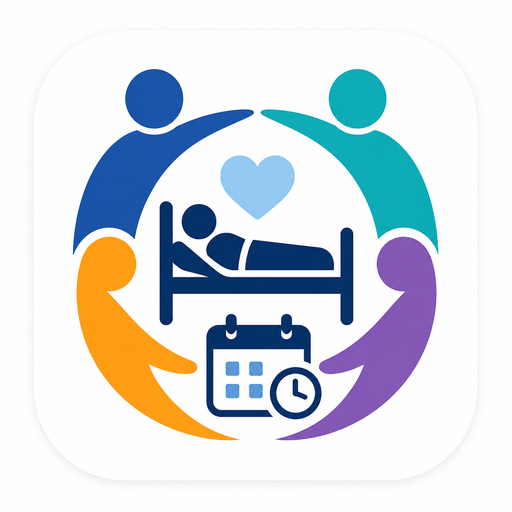
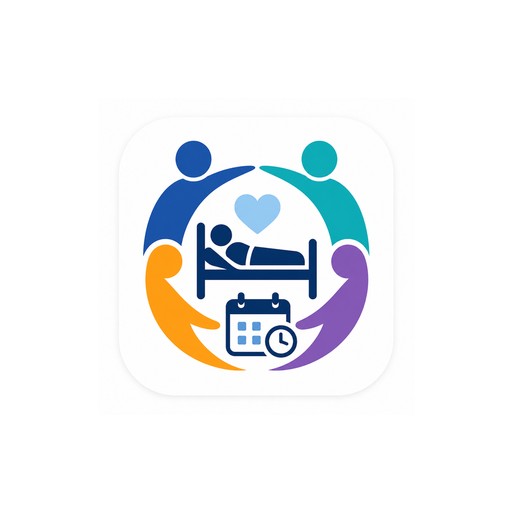
fix: icone adaptative Android recadree + bouton Fermer masque dans Mes modeles
L'icone Android (assets/adaptive-icon.png) remplissait tout le canvas 512x512
sans marge transparente : le masque du launcher (cercle/squircle) rognait le
carre blanc et les personnages du logo. Regenere avec l'illustration reduite
a 62% du canvas, centree sur fond transparent, pour rester dans la zone de
securite adaptive-icon quel que soit le masque applique.

Popup "Mes modeles" (MyChecklist.tsx) : la liste des modeles n'etait pas
scrollable, donc au-dela d'un certain nombre de modeles le bouton "Fermer"
etait pousse hors de la zone visible de la sheet (maxHeight 82%). Meme
correctif que la modale d'import de checklist suggeree : liste dans une
ScrollView plafonnee, bouton Fermer fixe en pied de sheet.

Changed region(s): [[0.125, 0.125, 0.875, 0.875]]

diff --git a/components/MyChecklist.tsx b/components/MyChecklist.tsx
@@ -701,25 +701,27 @@ export default function MyChecklist({ spaceId, isAdmin, ownerPrenom, ownerNom, o
                 Aucun modèle pour le moment. Enregistre une checklist comme modèle avec 💾, depuis son en-tête.
               </Text>
             ) : (
-              templates.map((tpl) => (
-                <TouchableOpacity
-                  key={tpl.id}
-                  style={[styles.checklistCard, { borderColor: C.gold, backgroundColor: C.gold + "14" }]}
-                  onPress={() => importTemplate(tpl)}
-                  disabled={importingTemplateId === tpl.id}
-                  activeOpacity={0.8}
-                >
-                  <Text style={styles.checklistCardIcon}>📋</Text>
-                  <View style={{ flex: 1 }}>
-                    <Text style={[styles.checklistCardTitle, { color: C.text }]}>{tpl.name}</Text>
-                    <Text style={[styles.checklistCardCount, { color: C.muted }]}>{tpl.items.length} items</Text>
-                  </View>
-                  {importingTemplateId === tpl.id
-                    ? <ActivityIndicator color={C.gold} />
-                    : <Text style={[styles.checklistCardArrow, { color: C.gold }]}>→</Text>
-                  }
-                </TouchableOpacity>
-              ))
+              <ScrollView style={styles.scroll} showsVerticalScrollIndicator nestedScrollEnabled>
+                {templates.map((tpl) => (
+                  <TouchableOpacity
+                    key={tpl.id}
+                    style={[styles.checklistCard, { borderColor: C.gold, backgroundColor: C.gold + "14" }]}
+                    onPress={() => importTemplate(tpl)}
+                    disabled={importingTemplateId === tpl.id}
+                    activeOpacity={0.8}
+                  >
+                    <Text style={styles.checklistCardIcon}>📋</Text>
+                    <View style={{ flex: 1 }}>
+                      <Text style={[styles.checklistCardTitle, { color: C.text }]}>{tpl.name}</Text>
+                      <Text style={[styles.checklistCardCount, { color: C.muted }]}>{tpl.items.length} items</Text>
+                    </View>
+                    {importingTemplateId === tpl.id
+                      ? <ActivityIndicator color={C.gold} />
+                      : <Text style={[styles.checklistCardArrow, { color: C.gold }]}>→</Text>
+                    }
+                  </TouchableOpacity>
+                ))}
+              </ScrollView>
             )}
             <TouchableOpacity
               onPress={() => setTemplatesPicker(false)}